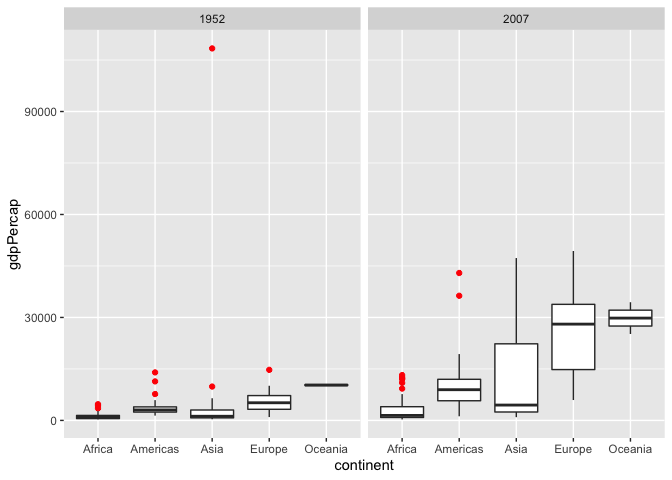
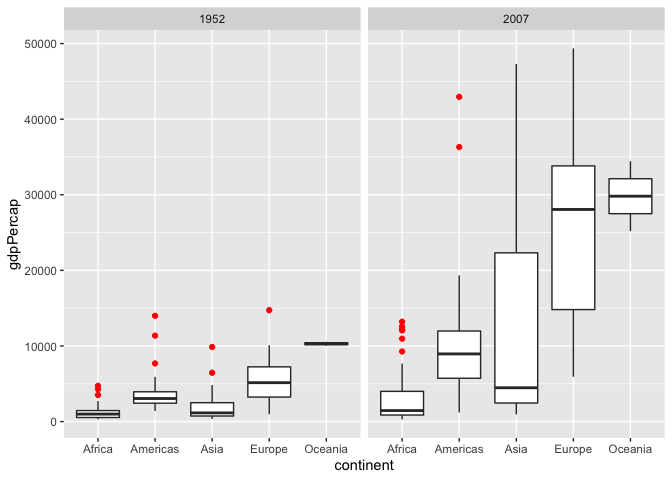
Updated gapminder

diff --git a/challenges/c04-gapminder-assignment.md b/challenges/c04-gapminder-assignment.md
@@ -361,6 +361,7 @@ variables; think about using different aesthetics or facets.
 ## TASK: Create a visual of gdpPercap vs continent
 gapminder %>%
   filter(year == year_min | year == year_max) %>%
+  filter(gdpPercap < 90000) %>% #removing 1 outlier that made it hard to visualize
   ggplot() +
   geom_boxplot(mapping = aes(continent, gdpPercap), outlier.colour = "red") +
   facet_wrap(~year)
@@ -456,3 +457,28 @@ gapminder %>%
     1952 to 2007?
   - If we’re looking at number of people increase, the answer is China
     and India.
+
+<!-- end list -->
+
+``` r
+## TASK: Create a visual of gdpPercap vs continent
+library(ggrepel)
+gapminder %>%
+  filter(year == year_min | year == year_max) %>%
+  filter(country %in% c("United States", "Angola", "Gabon", 
+                   "South Africa", "Canada", "Venezuela", "Bahrain",
+                   "Saudi Arabia", "Switzerland")) %>%
+  ggplot() +
+  geom_label_repel(mapping = aes(continent, gdpPercap, label = country)) +
+  facet_wrap(~year)
+```
+
+![](c04-gapminder-assignment_files/figure-gfm/q4-task-labels-1.png)<!-- -->
+
+**Observations**
+
+  - Question: How did the outliers from 1952 change relative to one
+    another over time?
+  - The US and Switzerland were on top in 1952, and in 2007 tne United
+    States is still on top, but Canada has surpassed Switzerland.
+  - Saudi Arabia grew to surpass South Africa and Gabon.
